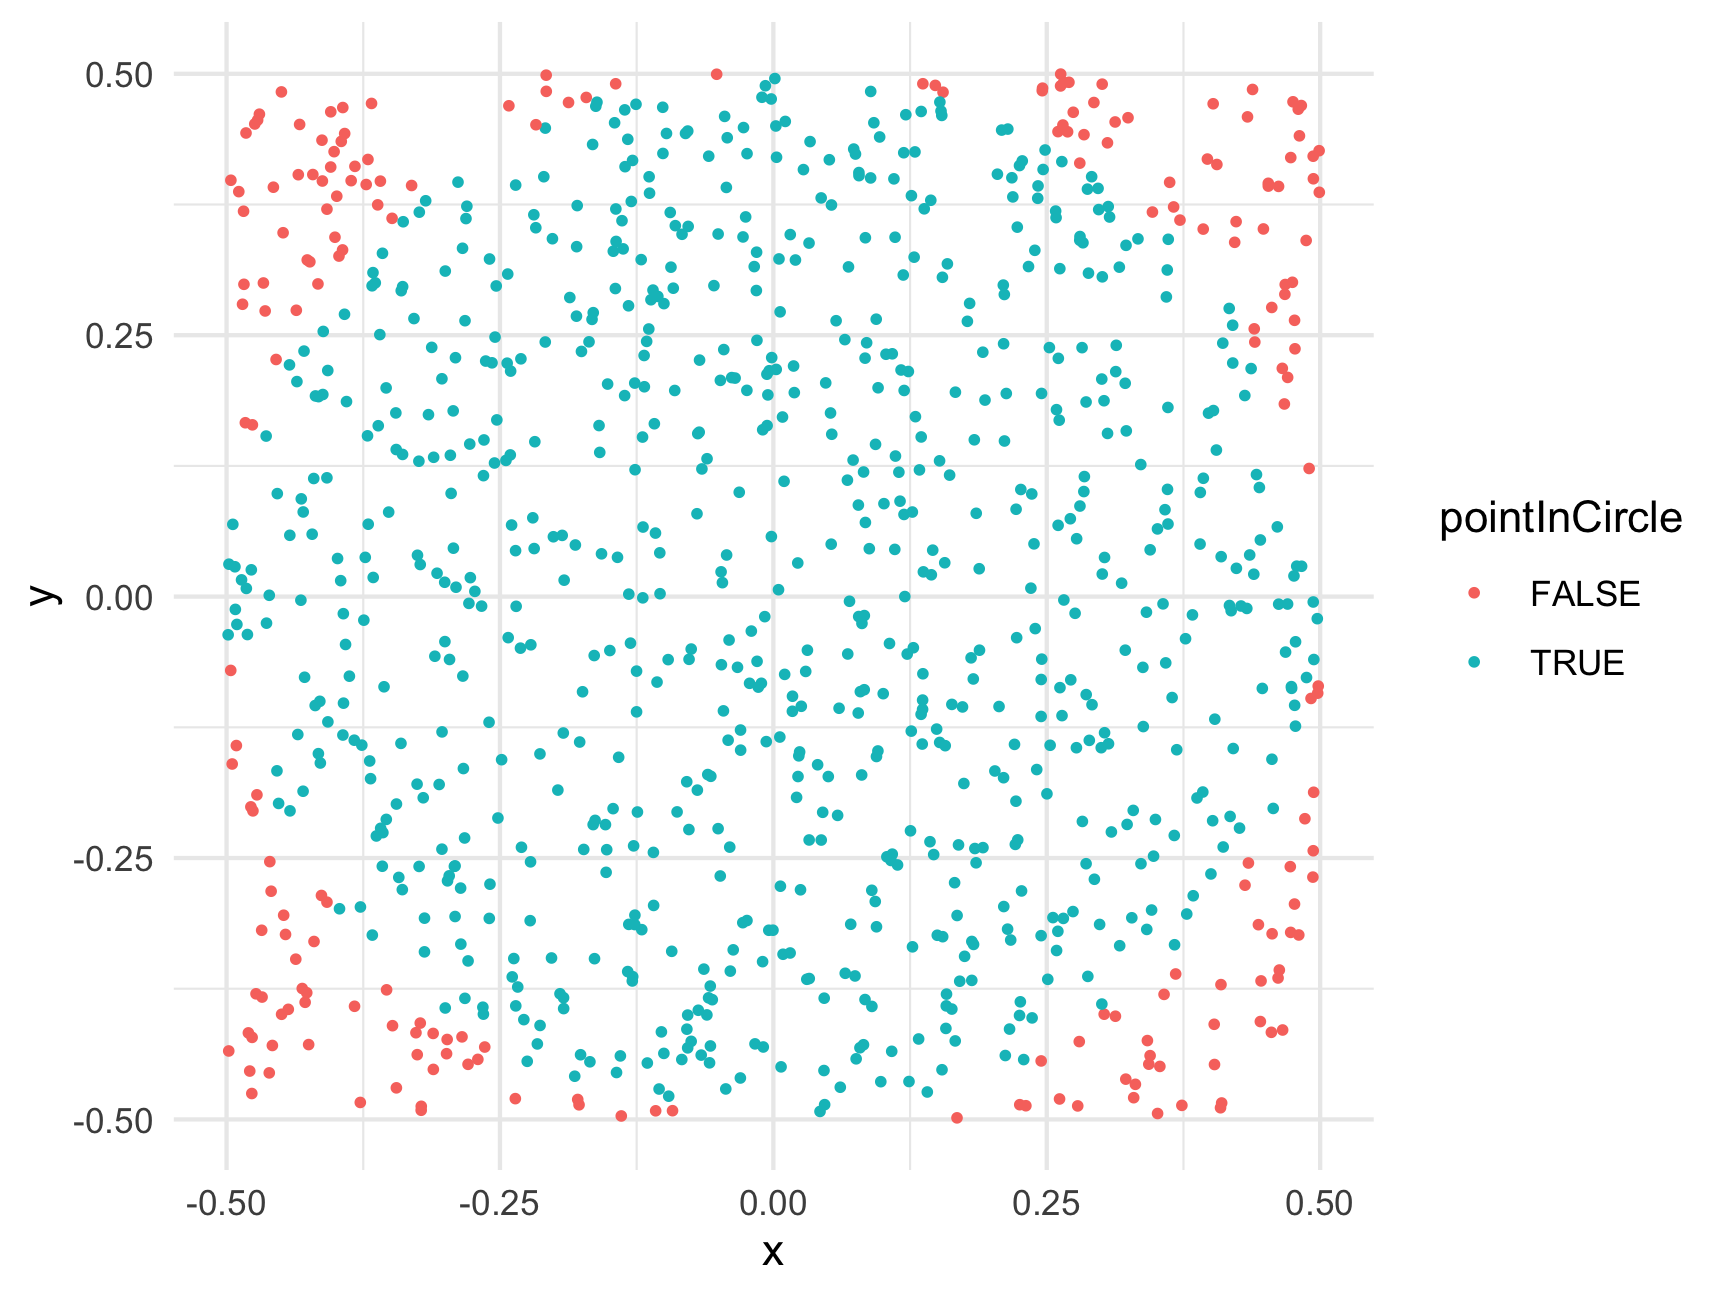
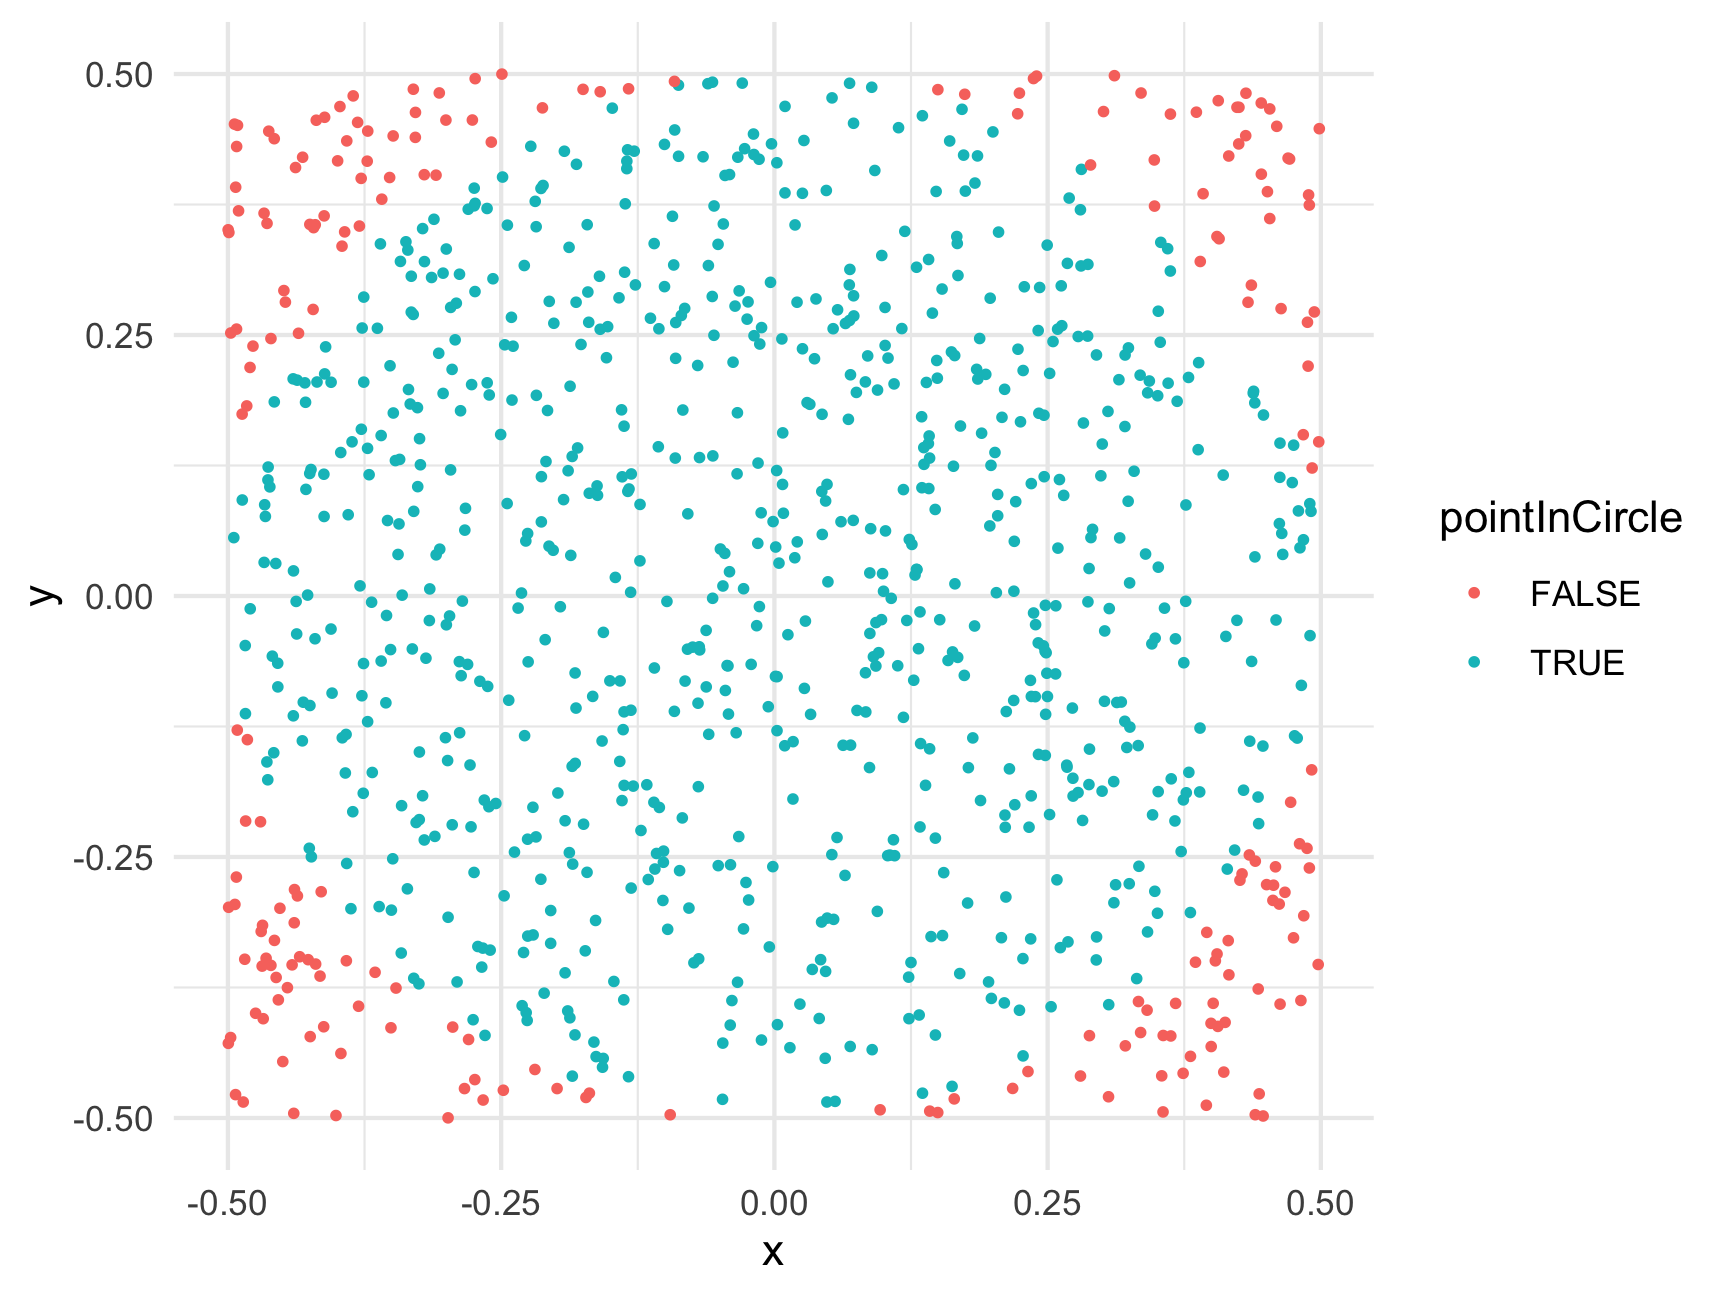
Deploying to gh-pages from  @ d94a49993330a2e15698922d0560703620988ded 🚀

diff --git a/hw12-reproducible-reporting.html b/hw12-reproducible-reporting.html
@@ -663,7 +663,107 @@ $(document).ready(function () {
 </div>
 
 
-<p>Coming soon!</p>
+<blockquote>
+<p><strong>Due</strong>: April 20 by 11:59pm</p>
+<p><strong>Submit</strong>: To submit this assignment, create a zip file of all the files in your R project folder for this assignment. Name the zip file <code>hw12-netID.zip</code>, replacing <code>netID</code> with your netID (e.g., <code>hw12-jph.zip</code>). Use <a href="https://u.pcloud.com/#page=puplink&amp;code=4VYkZFrkB2PiCTam5NRIFErHAE4tQIrXV">this link</a> to submit your file.</p>
+<p><strong>Weight</strong>: This assignment is worth 5% of your final grade.</p>
+<p><strong>Purpose</strong>: The purposes of this assignment are:</p>
+<ul>
+<li>Be able to manage computational projects for reproducibility, reuse, and collaboration.</li>
+<li>Use R tools and conventions to document code and analyses and produce reproducible reports.</li>
+<li>Be able to publish, share materials, and collaborate through the web.</li>
+</ul>
+<p><strong>Assessment</strong>: Each question indicates the % of the assignment grade, summing to 100%. The credit for each question will be assigned as follows:</p>
+<ul>
+<li>0% for not attempting a response.</li>
+<li>50% for attempting the question but with <em>major</em> errors.</li>
+<li>75% for attempting the question but with <em>minor</em> errors.</li>
+<li>100% for correctly answering the question.</li>
+</ul>
+<p>The reflection portion is always worth 10% and graded for completion.</p>
+<p><strong>Rules</strong>:</p>
+<ul>
+<li>Problems marked <strong>SOLO</strong> may not be worked on with other classmates, though you may consult instructors for help.</li>
+<li>For problems marked <strong>COLLABORATIVE</strong>, you may work in groups of up to 3 students who are in this course this semester. You may not split up the work – everyone must work on every problem. And you may not simply copy any code but rather truly work together and submit your own solutions.</li>
+</ul>
+</blockquote>
+<div id="staying-organized-5" class="section level3">
+<h3>1) Staying organized [5%]</h3>
+<p>Download and use <a href="templates/hw12.zip">this template</a> for your assignment. Inside the “hw12” folder, open and edit the YAML at the top of the “hw12.Rmd” file.</p>
+<blockquote>
+<p>This week’s main task is simple: <strong>Create a html document of HW 11</strong>.</p>
+</blockquote>
+<p>For this last assignment, all you need to do is convert what you did in HW 11 into a .Rmd file that compiles to a html document. So you’re going to repeat the same steps as in HW 11, except this time your result will be a much nicer, well-formatted html page. <strong>If you want, you may choose to work with a different dataset from HW 11, but you may also just use the same dataset and charts from your HW 11 submission.</strong></p>
+<blockquote>
+<h3 id="using-good-style"><strong>Using good style</strong></h3>
+<p>For this assignment, you must use good style to receive full credit. Follow the best practices described in <a href="http://adv-r.had.co.nz/Style.html">this style guide</a>.</p>
+</blockquote>
+</div>
+<div id="choose-and-load-some-data-5" class="section level3">
+<h3>2) Choose and load some data [5%]</h3>
+<p>For this assignment, you will need to find a dataset of your choosing and create <strong>three</strong> summary visualizations. To keep things manageable, choose one of the following datasets from the following libraries. Note that to load any of these data frames, all you need to do is install and load the package.</p>
+<p><strong>dplyr</strong>:</p>
+<ul>
+<li><code>storms</code></li>
+<li><code>starwars</code></li>
+</ul>
+<p><strong>ggplot2</strong>:</p>
+<ul>
+<li><code>diamonds</code></li>
+<li><code>economics</code></li>
+<li><code>midwest</code></li>
+<li><code>mpg</code></li>
+<li><code>msleep</code></li>
+<li><code>txhousing</code></li>
+</ul>
+<p><strong>dslabs</strong>:</p>
+<ul>
+<li><code>gapminder</code></li>
+<li><code>movielens</code></li>
+<li><code>murders</code></li>
+<li><code>stars</code></li>
+</ul>
+</div>
+<div id="inspect-your-data-10" class="section level3">
+<h3>3) Inspect your data [10%]</h3>
+<p>Once you’ve chosen a data set, open your <code>hw12.Rmd</code> file and begin exploring the data (be sure to load the package that contains the dataset at the top of your file). Write some code in code chunks to preview and summarize the data frame using some of the methods we’ve used in class. You should be able to quickly get an understanding of what variables are included and their nature. Consider the following questions in your exploration (you don’t have to write out answers to these questions - just write code to help you answer them by previewing the data in different ways):</p>
+<ul>
+<li>What is the total size of the data frame?</li>
+<li>What type of data is each variable (numeric, character, logical, date)?</li>
+<li>Do any variables have missing values? Why might that be?</li>
+<li>What are the “boundaries” of each period of observation:
+<ul>
+<li>For numeric variables, what are the min and max values?</li>
+<li>For character variables, what are the unique values in the variable?</li>
+<li>For date variables, what time period do the observations in these data frames span?</li>
+</ul></li>
+</ul>
+</div>
+<div id="make-charts-50" class="section level3">
+<h3>4) Make charts [50%]</h3>
+<p>Now that you have a basic understanding of the dataset, make some charts to explore the variables in the data and their potential relationships. You may use base R plotting functions or the <strong>ggplot2</strong> package to make your figures, but you must make at least two different types of figures, including:</p>
+<ol style="list-style-type: decimal">
+<li>A scatterplot of involving at least two variables.</li>
+<li>A bar chart involving at least one variable.</li>
+</ol>
+<p>You can choose to plot whichever variables you wish, but you must be able to interpret the results of your chart.</p>
+</div>
+<div id="interpret-your-charts-15" class="section level3">
+<h3>5) Interpret your charts [15%]</h3>
+<p>Below the code for each of your charts, write a description and interpretation of your chart in a comment. Make sure you address at least the following questions:</p>
+<ol style="list-style-type: decimal">
+<li>Describe what variables you are plotting and why.</li>
+<li>Describe the primary relationship / trend / information you hope the reader will gain from your visualization.</li>
+</ol>
+</div>
+<div id="compile-your-rmarkdown-document-5" class="section level3">
+<h3>6) Compile your RMarkdown document [5%]</h3>
+<p>When you’re done, click the “knit” button to compile your .Rmd file into a html page. Make sure you’ve used code chunk settings to make the outputs pretty (e.g. nice figure dimensions, no warning messages, etc.).</p>
+</div>
+<div id="read-and-reflect-solo-10" class="section level3">
+<h3>7) Read and reflect [SOLO, 10%]</h3>
+<p>Read and reflect on next week’s readings on <a href="r13-monte-carlo-methods.html">monte carlo methods</a>. Afterwards, in a comment (<code>#</code>) in your R file, write a short reflection on what you’ve learned and any questions or points of confusion you have about what we’ve covered thus far. This can just few a few sentences related to this assignment, next week’s readings, things going on in the world that remind you something from class, etc. If there’s anything that jumped out at you, write it down.</p>
+</div>
 
 <hr>
 

diff --git a/r13-monte-carlo-methods.html b/r13-monte-carlo-methods.html
@@ -812,11 +812,11 @@ ratio &lt;- sum(belowCurve) / numTrials
 totalArea &lt;- (7 - 3) * 7^2 # Rectangle length x height = 196
 areaUnderCurve &lt;- ratio * totalArea
 areaUnderCurve</code></pre>
-<pre><code>#&gt; [1] 105.6166</code></pre>
-<p>So, using Monte Carlo simulation with 100,000 points, we estimate that the area under the curve is 105.61656. How’d we do? Well, if you’re familiar with calculus, the integral of <span class="math inline">\(f(x) = x^2\)</span> has a closed-form solution (<span class="math inline">\(\frac{x^3}{3} + C\)</span>), so we can check our estimate against the pure-math solution:</p>
+<pre><code>#&gt; [1] 105.4304</code></pre>
+<p>So, using Monte Carlo simulation with 100,000 points, we estimate that the area under the curve is 105.43036. How’d we do? Well, if you’re familiar with calculus, the integral of <span class="math inline">\(f(x) = x^2\)</span> has a closed-form solution (<span class="math inline">\(\frac{x^3}{3} + C\)</span>), so we can check our estimate against the pure-math solution:</p>
 <p><span class="math display">\[\int_{3}^{7} x^2 \mathrm{dx} = \left ( \frac{x^3}{3} \right ) \Big|_3^7 = \frac{7^3}{3} - \frac{3^3}{3} = 105.33\bar{3}\]</span></p>
-<p>So our estimate error is: <code>105.333 -</code> <code>105.61656</code> <code>=</code> <code>-0.2832267</code>.</p>
-<p>That’s an error of just 0.27 % - not bad!</p>
+<p>So our estimate error is: <code>105.333 -</code> <code>105.43036</code> <code>=</code> <code>-0.0970267</code>.</p>
+<p>That’s an error of just 0.09 % - not bad!</p>
 <hr />
 </div>
 <div id="monte-carlo-pi" class="section level1">
@@ -846,13 +846,13 @@ points &lt;- data.frame(
     x = runif(numTrials, -0.5, 0.5),
     y = runif(numTrials, -0.5, 0.5))
 head(points)</code></pre>
-<pre><code>#&gt;            x            y
-#&gt; 1  0.4170608 -0.008488193
-#&gt; 2 -0.2217576 -0.046083865
-#&gt; 3  0.1192301  0.424519825
-#&gt; 4 -0.2387817 -0.363682093
-#&gt; 5 -0.3482595 -0.410355421
-#&gt; 6  0.4186124 -0.013484212</code></pre>
+<pre><code>#&gt;             x          y
+#&gt; 1  0.48944111  0.3744888
+#&gt; 2  0.09188077  0.4075910
+#&gt; 3 -0.13104374 -0.2797845
+#&gt; 4 -0.46422258  0.3569061
+#&gt; 5  0.29449668 -0.3486131
+#&gt; 6 -0.10201812 -0.2916603</code></pre>
 <p>For this example, we’re putting the points in a data frame to make it easier to work with. Now that we have random x and y points, let’s compute the radius to each point (the distance from <code>(x, y) = (0, 0)</code>) so we can determine which points fall inside the circle (which has a radius of 0.5):</p>
 <pre class="r"><code>library(dplyr)
 points &lt;- points %&gt;%
@@ -869,9 +869,9 @@ ggplot(points) +
 <pre class="r"><code>ratio &lt;- sum(points$pointInCircle) / nrow(points)
 piApprox &lt;- 4 * ratio
 piApprox</code></pre>
-<pre><code>#&gt; [1] 3.152</code></pre>
-<p>So our estimate error is: <code>3.1415 -</code> <code>3.152</code> <code>=</code> <code>0.0104073</code>.</p>
-<p>That’s an error of just 0.33 % - not bad for only 1,000 points!</p>
+<pre><code>#&gt; [1] 3.128</code></pre>
+<p>So our estimate error is: <code>3.1415 -</code> <code>3.128</code> <code>=</code> <code>-0.0135927</code>.</p>
+<p>That’s an error of just 0.43 % - not bad for only 1,000 points!</p>
 <p>To get an even better estimate of <span class="math inline">\(\pi\)</span>, we can increase N. Let’s see what we get with 100,000 trials:</p>
 <pre class="r"><code>numTrials &lt;- 100000
 points &lt;- data.frame(
@@ -883,13 +883,13 @@ points &lt;- data.frame(
 ratio &lt;- sum(points$pointInCircle) / nrow(points)
 piApprox &lt;- 4 * ratio
 piApprox</code></pre>
-<pre><code>#&gt; [1] 3.14684</code></pre>
+<pre><code>#&gt; [1] 3.1394</code></pre>
 <pre class="r"><code># Compute error:
 error &lt;- piApprox - pi
 percentError &lt;- round(100*abs(error / pi), 2)
 percentError</code></pre>
-<pre><code>#&gt; [1] 0.17</code></pre>
-<p>By increasing the number of trials from 1,000 to 100,000, we improved our estimate error from 0.33 % to 0.17 %!</p>
+<pre><code>#&gt; [1] 0.07</code></pre>
+<p>By increasing the number of trials from 1,000 to 100,000, we improved our estimate error from 0.43 % to 0.07 %!</p>
 <hr />
 <p><strong>Page sources</strong>:</p>
 <p>Some content on this page has been modified from other courses, including:</p>

diff --git a/r2-functions-packages.html b/r2-functions-packages.html
@@ -770,7 +770,7 @@ div.tocify {
 <p>Here the letters <code>sqrt</code> are short for “square root,” and the value inside the <code>()</code> is the “argument” to the function. In the example above, the value <code>225</code> is the “argument”.</p>
 <p>Keep in mind that not all functions have (or require) arguments:</p>
 <pre class="r"><code>date() # Returns the current date and time</code></pre>
-<pre><code>#&gt; [1] &quot;Wed Apr  6 17:53:17 2022&quot;</code></pre>
+<pre><code>#&gt; [1] &quot;Mon Apr 11 18:10:43 2022&quot;</code></pre>
 <p>(the date above is the date this page was last built)</p>
 <div id="multiple-arguments" class="section level2">
 <h2>Multiple arguments</h2>
@@ -988,9 +988,9 @@ library(packagename)   # This also works</code></pre>
 <p>Now that you have the package installed on your computer, try loading it using <code>library(wikifacts)</code>, then trying using some of it’s functions:</p>
 <pre class="r"><code>library(wikifacts) # Load the library</code></pre>
 <pre class="r"><code>wiki_randomfact()</code></pre>
-<pre><code>#&gt; [1] &quot;Did you know that on June 16 in 1883 – In the Victoria Hall disaster, 183 children were crushed to death when they ran down the stairs to collect gifts after a variety show in Sunderland, England. (Courtesy of Wikipedia)&quot;</code></pre>
+<pre><code>#&gt; [1] &quot;Did you know that Cold War Kids named their album Loyalty to Loyalty after a paper of the same name by American philosopher Josiah Royce? (Courtesy of Wikipedia)&quot;</code></pre>
 <pre class="r"><code>wiki_didyouknow()</code></pre>
-<pre><code>#&gt; [1] &quot;Did you know that Anderson Stadium in Austin, Texas, is the last high-school football stadium in the state built exclusively for African-American students? (Courtesy of Wikipedia)&quot;</code></pre>
+<pre><code>#&gt; [1] &quot;Did you know that MLS Cup 2020 will feature Seattle Sounders FC for the fourth time in five years? (Courtesy of Wikipedia)&quot;</code></pre>
 <p>In case you’re wondering, the only thing this package does is generate messages containing random facts from <a href="https://www.wikipedia.org/">Wikipedia</a>.</p>
 </div>
 <div id="using-only-some-package-functions" class="section level2">
@@ -1001,7 +1001,7 @@ library(packagename)   # This also works</code></pre>
 </blockquote>
 <p>Here I use the name of the <em>package</em> followed by <code>::</code> to tell R that I’m looking for a function that is in that package. For example, if I didn’t want to load the whole <strong>wikifacts</strong> library but still wanted to use the <code>wiki_randomfact()</code> function, I could do this:</p>
 <pre class="r"><code>wikifacts::wiki_randomfact()</code></pre>
-<pre><code>#&gt; [1] &quot;Here&#39;s some news from 19 March 2020. The World Health Organization recognises the coronavirus outbreak as a pandemic. (Courtesy of Wikipedia)&quot;</code></pre>
+<pre><code>#&gt; [1] &quot;Did you know that on August 20 in 1962 – NS Savannah (pictured), the first nuclear-powered cargo-passenger ship, made her maiden voyage. (Courtesy of Wikipedia)&quot;</code></pre>
 <p>Where this is particularly handy is when two packages have a function with the same name. If you load both library, R might not know which function to use. In those cases, it’s best to also provide the <strong>package</strong> name. For example, let’s say there was a package called <strong>apples</strong> and another called <strong>bananas</strong>, and each had a function named <code>fruitName()</code>. If I wanted to use each of them in my code, I would need to specify the package names like this:</p>
 <pre class="r"><code>apples::fruitName()
 bananas::fruitName()</code></pre>

diff --git a/c12-reproducible-reporting.html b/c12-reproducible-reporting.html
@@ -31,6 +31,7 @@
 <script src="site_libs/navigation-1.1/tabsets.js"></script>
 <link href="site_libs/highlightjs-9.12.0/textmate.css" rel="stylesheet" />
 <script src="site_libs/highlightjs-9.12.0/highlight.js"></script>
+<script src="site_libs/fitvids-2.1.1/fitvids.min.js"></script>
 <link href="site_libs/font-awesome-5.1.0/css/all.css" rel="stylesheet" />
 <link href="site_libs/font-awesome-5.1.0/css/v4-shims.css" rel="stylesheet" />
 <link rel="icon" href="images/favicon.ico">
@@ -663,7 +664,35 @@ $(document).ready(function () {
 </div>
 
 
-<p>Coming soon!</p>
+<div class = "row">
+<div class="col-md-5">
+<p><strong>KEYBOARD SHORTCUTS FOR SLIDES:</strong></p>
+<ul>
+<li>Use <kbd>←</kbd> and <kbd>→</kbd> to navigate through the slides.</li>
+<li>Use <kbd>f</kbd> to toggle full screen.</li>
+<li>Use <kbd>o</kbd> to view an overview of all slides.</li>
+<li>Use <kbd>h</kbd> to see a list of other shortcuts.</li>
+</ul>
+</div>
+<div class="row">
+<div class="col-md-3">
+<div class="class-buttons">
+<p><strong>SLIDES</strong></p>
+<p><a href=class/12-reproducible-reporting/index.html class="btn-slides" target="_blank"><i class="fas fa-external-link-alt"></i> View in new window</a></p>
+<p><a href=class/12-reproducible-reporting/12-reproducible-reporting.pdf class="btn-slides"><i class="fas fa-file-pdf"></i> Download as PDF</a></p>
+</div>
+</div>
+<div class="col-md-3">
+<div class="class-buttons">
+<p><strong>CLASS PRACTICE</strong></p>
+<p><a href=class/12-reproducible-reporting/12-reproducible-reporting.zip class="btn-notes"><i class="fas fa-download"></i> Download zip file</a></p>
+</div>
+</div>
+</div>
+<div class="shareagain" style="min-width:300px;margin:1em auto;">
+<iframe src="class/12-reproducible-reporting/index.html" width="1600" height="900" style="border:2px solid currentColor;" loading="lazy" allowfullscreen></iframe>
+<script>fitvids('.shareagain', {players: 'iframe'});</script>
+</div>
 
 <hr>
 

diff --git a/schedule.html b/schedule.html
@@ -920,22 +920,22 @@ Mar 31
 </td>
 </tr>
 <tr>
-<td style="text-align:center;">
+<td style="text-align:center;background-color: #e1e1e1 !important;">
 13
 </td>
-<td style="text-align:center;width: 2em; ">
+<td style="text-align:center;width: 2em; background-color: #e1e1e1 !important;">
 Apr 07
 </td>
-<td style="text-align:left;">
+<td style="text-align:left;background-color: #e1e1e1 !important;">
 Quiz 6: <br> <em>Weeks 11 - 12</em>
 </td>
-<td style="text-align:left;width: 20em; ">
+<td style="text-align:left;width: 20em; background-color: #e1e1e1 !important;">
 <a href="c11-data-visualization.html"><i class="fas fa-laptop-code"></i></a> <strong>Data Visualization</strong><br>Visualizing your data
 </td>
-<td style="text-align:left;width: 9em; ">
+<td style="text-align:left;width: 9em; background-color: #e1e1e1 !important;">
 <a href="hw11-data-visualization.html"><i class="fas fa-pencil-ruler"></i></a> <strong>HW 11</strong><br>Due: Apr 13
 </td>
-<td style="text-align:left;">
+<td style="text-align:left;background-color: #e1e1e1 !important;">
 <a href="r12-reproducible-reporting.html"><i class="fas fa-book"></i></a> Reproducible Reporting
 </td>
 </tr>
